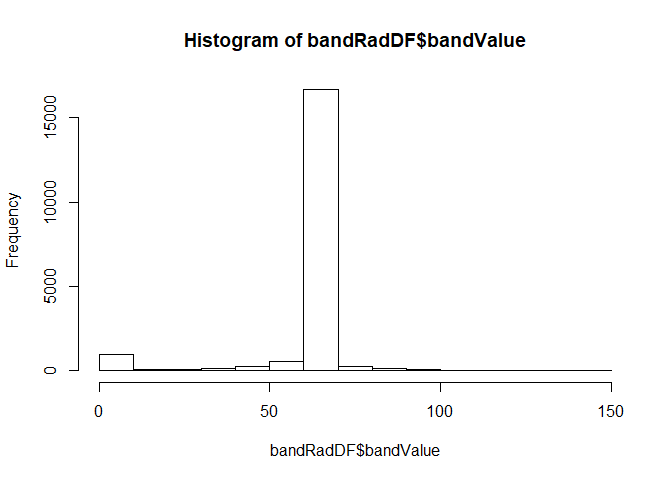
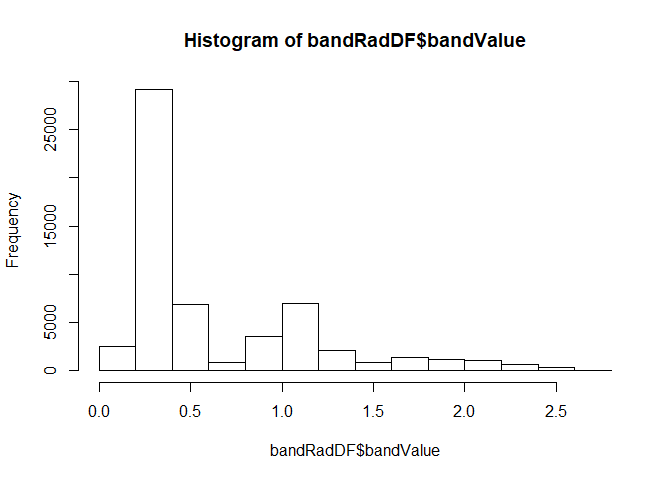
fig

diff --git a/tutorials/Band-calculation/README.md b/tutorials/Band-calculation/README.md
@@ -14,7 +14,6 @@ sF_trans <- daRt::simulationFilter(product = "images", bands = integer(), iters 
 sF_tapp <- sF_trans
 imageTypes(sF_tapp) <- "camera"
 typeNums(sF_tapp) <- "1_Fluid"
-typeNums(sF_tapp) <- "" #TEMP
 
 simData_transAtm <- daRt::getData(x = simDir, sF = sF_trans)
 simData_tappAtm <- daRt::getData(x = simDir, sF = sF_tapp)
@@ -144,15 +143,13 @@ radAtmSpectral <- as.data.frame(simData_radAtm) %>%
 ```
 
 ```r
-radAtmSpectral$value_tapp <- .planck_inverse(radAtmSpectral$equivalentWavelength, radAtmSpectral$value)
-
 bandRadDF <- getBandRadiance(spectralDF = radAtmSpectral, SRF = SRF)
 ggplot(radAtmSpectral %>% 
          filter(value > 0.5) %>% 
          group_by(lambdamid, add = TRUE) %>% 
-         summarise(valMin = quantile(value, 0.05),
+         summarise(valMin = quantile(value, 0.25),
                    valMid = quantile(value, 0.5), 
-                   valMax = quantile(value, 0.95))) +
+                   valMax = quantile(value, 0.75))) +
   geom_ribbon(aes(x = lambdamid, ymin = valMin, ymax = valMax), fill = "red") +
   geom_line(aes(x = lambdamid, y = valMid), colour = "black", size = 0.75)
 ```
@@ -173,7 +170,7 @@ summary(bandRadDF$bandValue[bandRadDF$bandValue > 1])
 
 ```
 ##    Min. 1st Qu.  Median    Mean 3rd Qu.    Max. 
-##    1.16   61.79   62.12   58.82   62.24  145.14
+##   1.000   1.097   1.217   1.424   1.704   2.662
 ```
 
 ```r
